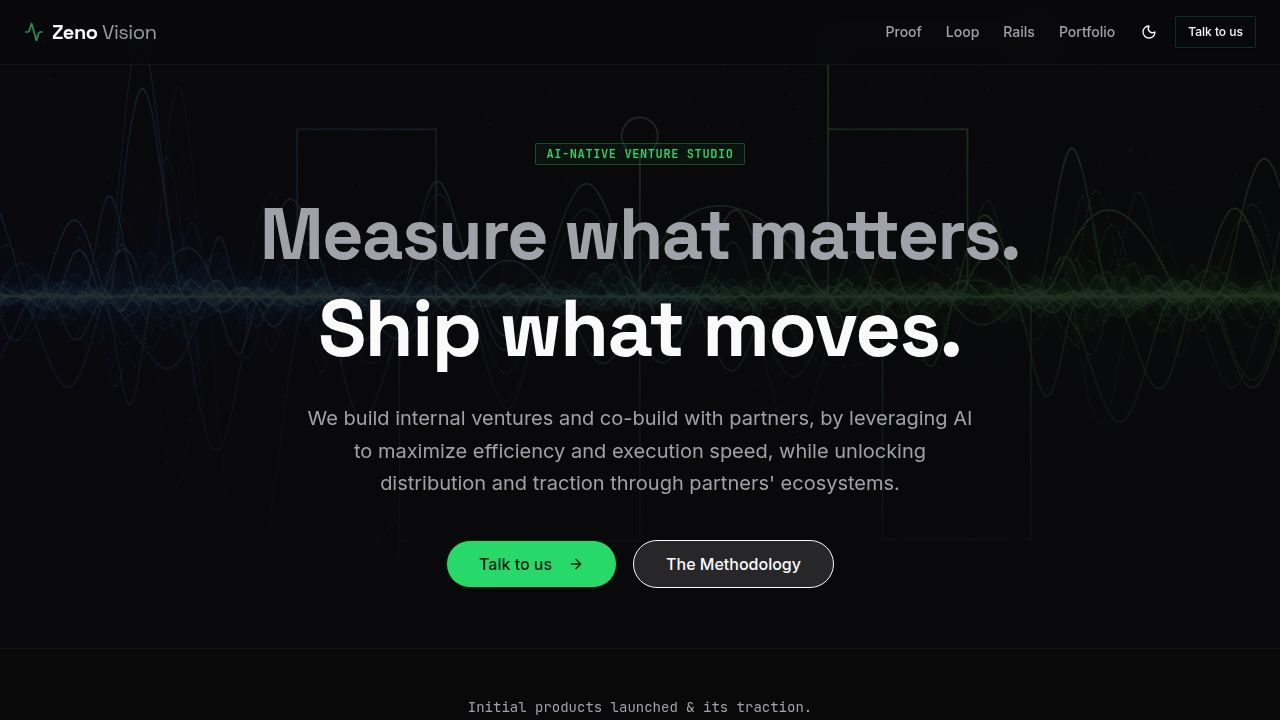
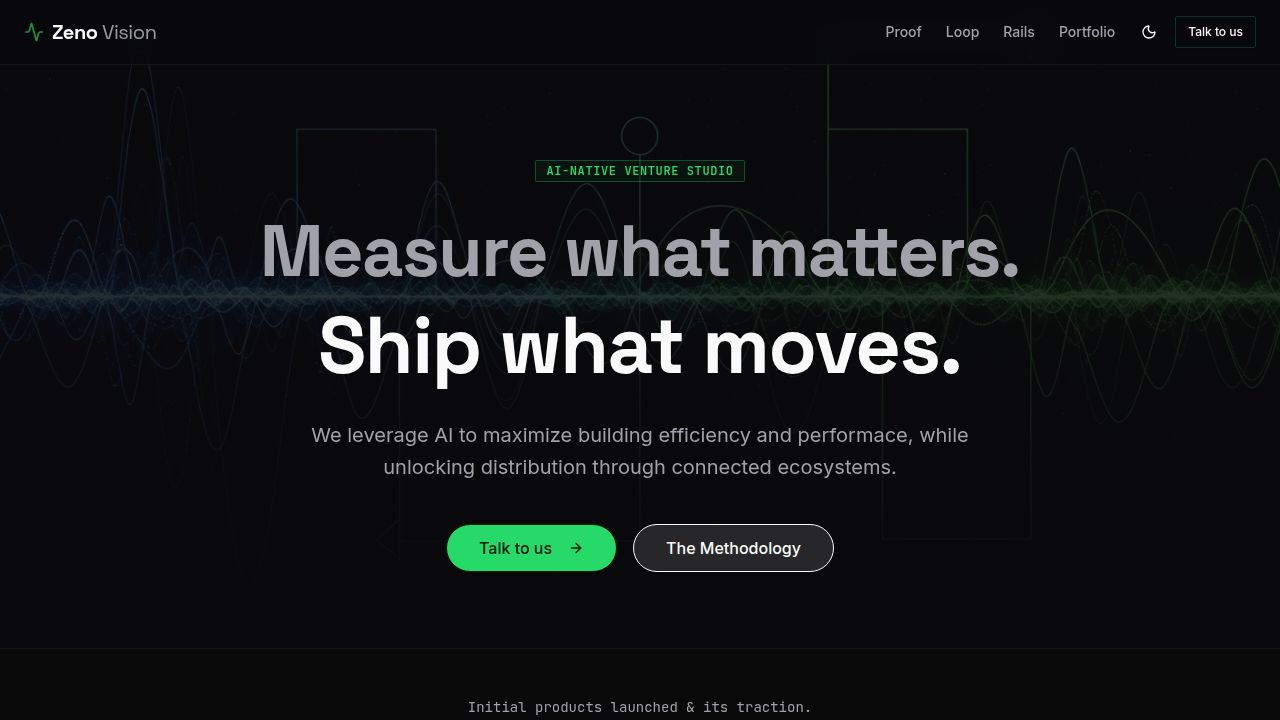
Update hero section tagline and improve text display
Update hero section tagline and adjust text display for better readability.

Replit-Commit-Author: Agent
Replit-Commit-Session-Id: 262afabe-b372-450c-9c74-cf88ad5452be
Replit-Commit-Checkpoint-Type: full_checkpoint
Replit-Commit-Event-Id: c9e2beb0-651a-4044-9ef8-065c21a151c5
Replit-Commit-Screenshot-Url: https://storage.googleapis.com/screenshot-production-us-central1/4f4f9012-dcda-40b1-bf47-ed13ac9763ff/262afabe-b372-450c-9c74-cf88ad5452be/SJpBabX
Replit-Helium-Checkpoint-Created: true

Changed region(s): [[0.1875, 0.275, 0.8125, 0.55], [0.25, 0.55, 0.7812, 0.825], [0.4062, 0.1833, 0.5938, 0.2444]]

diff --git a/client/src/pages/home.tsx b/client/src/pages/home.tsx
@@ -112,7 +112,7 @@ const Hero = () => {
             <span className="text-[1.1em]">Ship what moves.</span>
           </h1>
           <p className="text-lg md:text-xl text-muted-foreground max-w-2xl mx-auto mb-10 leading-relaxed">
-            We build internal ventures and co-build with partners, by leveraging AI to maximize efficiency and execution speed, while unlocking distribution and traction through partners' ecosystems.
+            We leverage AI to maximize building efficiency and performace, while unlocking distribution through connected ecosystems.
           </p>
           
           <div className="flex flex-col sm:flex-row items-center justify-center gap-4">
